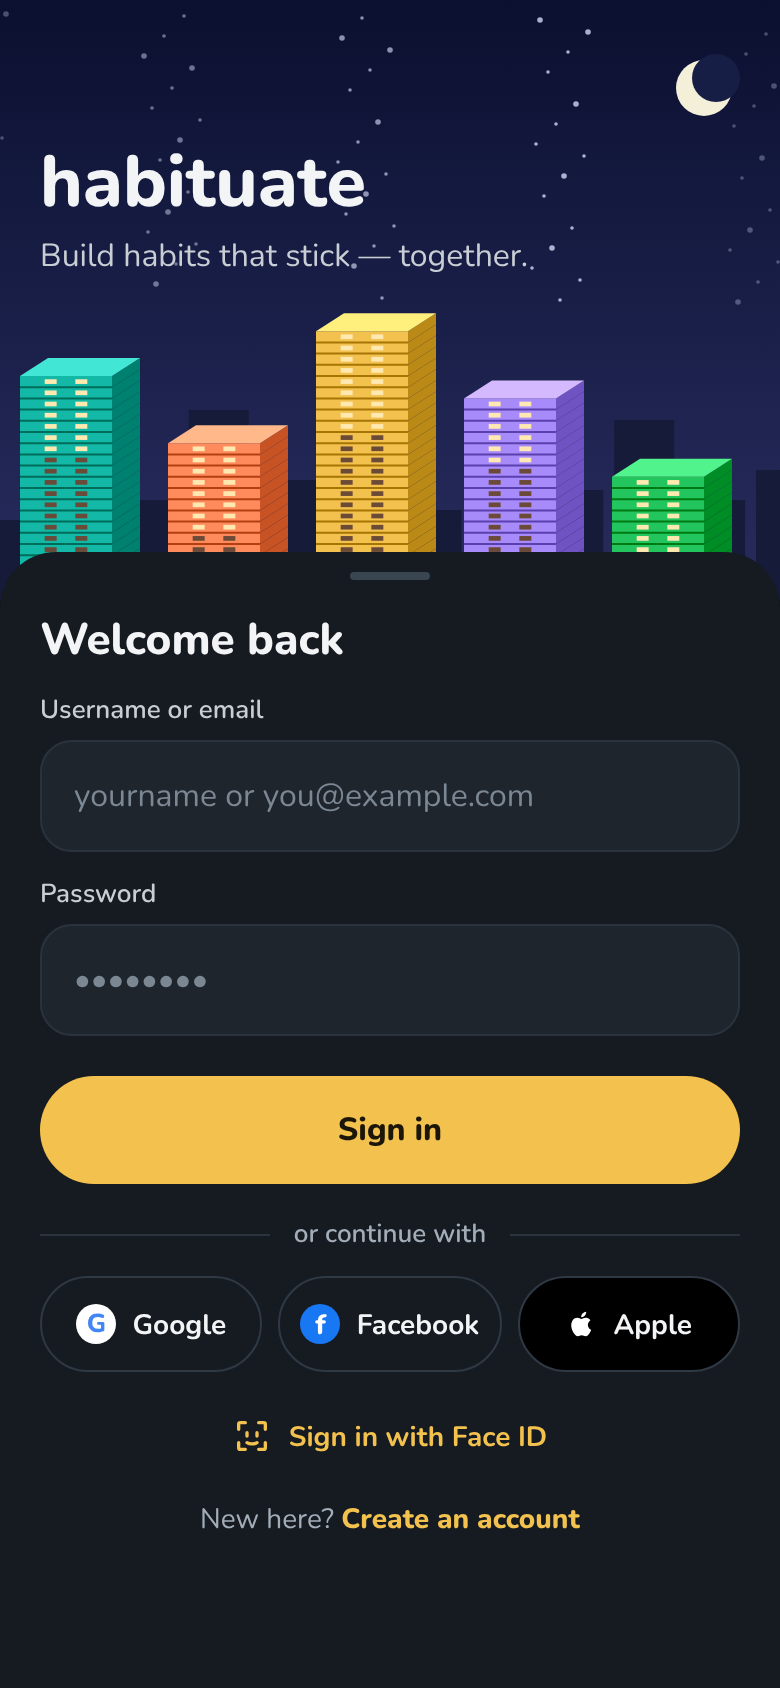
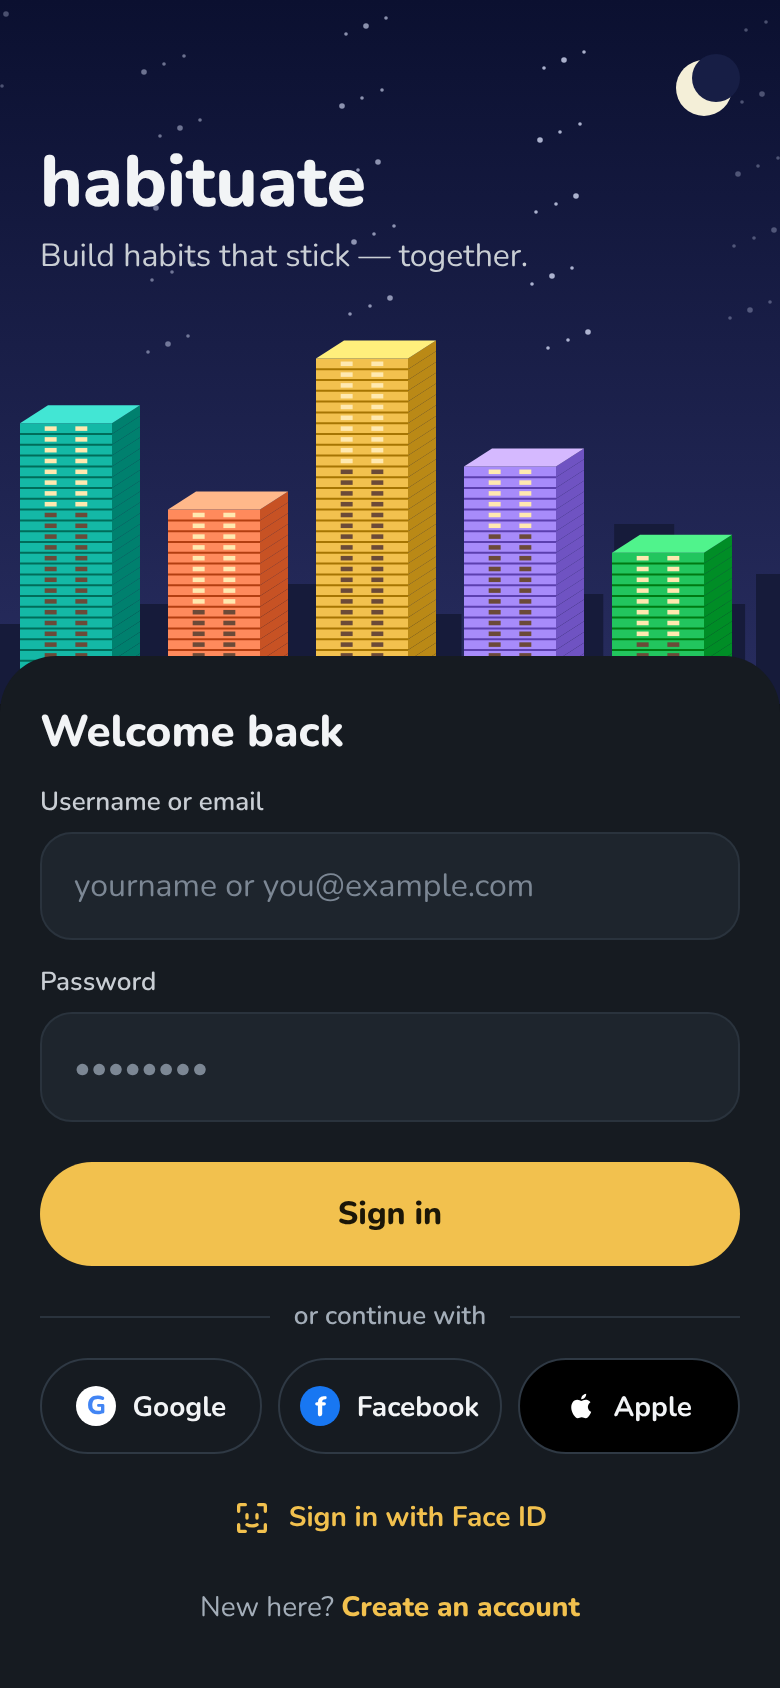
Login and create account: full-screen layout
Claude-Session: https://claude.ai/code/session_01UvWD32uMFJU1E2B9jDYiLg

diff --git a/design/skyline/source/rd.js b/design/skyline/source/rd.js
@@ -132,21 +132,20 @@ if(S==='rd-sn'){document.body.style.width="820px";document.body.style.height="47
  R.innerHTML=`<div style="position:absolute;inset:0;background:#0F1216;padding:16px 16px 0"><div style="display:flex;gap:16px">${crop('1 left',0)}${crop('Unlock',1)}</div><div style="display:flex;gap:16px;margin-top:8px"><div style="width:390px;font-size:13px;color:#C9CED4;line-height:1.4"><b>Near the cap (4 of 5 daily)</b>: the label under the empty lot reads "1 left" in meta grey (12 / 400). The lot still starts a new tower.</div><div style="width:390px;font-size:13px;color:#C9CED4;line-height:1.4"><b>At the cap (5 of 5 daily)</b>: the lot outline and label turn amber and read "Unlock". Tapping opens the create form as usual; Save then shows the paywall.</div></div></div>`;}
 
 // ---- auth (boards 92-93), design system: hero 36/800, message 16/400, sheet title 22/800, label 13/600, input 56, primary 54, secondary 48, meta 12-14
-if(S==='rd-li'||S==='rd-su'){const su=S==='rd-su';const HH=su?232:300;
- const T=su?[['#14B8A6',14,6,26],['#FF8A5C',10,6,100],['#F2C14E',18,8,174],['#A78BFA',13,5,248],['#22C55E',9,6,322]]:[['#14B8A6',20,7,10],['#FF8A5C',14,8,84],['#F2C14E',24,9,158],['#A78BFA',18,6,232],['#22C55E',11,7,306]];
+if(S==='rd-li'||S==='rd-su'){const su=S==='rd-su';const HH=su?280:352;
+ const T=su?[['#14B8A6',16,6,26],['#FF8A5C',11,6,100],['#F2C14E',20,8,174],['#A78BFA',14,5,248],['#22C55E',10,6,322]]:[['#14B8A6',26,8,10],['#FF8A5C',18,9,84],['#F2C14E',32,10,158],['#A78BFA',22,6,232],['#22C55E',14,8,306]];
  const fld=(l,ph)=>`<div style="font-size:13px;font-weight:600;line-height:18px;color:#C9CED4;margin-top:12px">${l}</div><div style="height:56px;border-radius:16px;background:#1E252D;border:1px solid #2A333D;display:flex;align-items:center;padding:0 16px;font-size:16px;color:#7C8794;margin-top:6px">${ph}</div>`;
  const pill=(ic,t,st='')=>`<div style="flex:1;height:48px;border-radius:24px;border:1.5px solid #2F3944;display:flex;align-items:center;justify-content:center;gap:8px;font-size:14px;font-weight:700;${st}">${ic}${t}</div>`;
  const g=`<i style="width:20px;height:20px;border-radius:10px;background:#fff;color:#4285F4;font-size:13px;font-weight:800;display:flex;align-items:center;justify-content:center;font-style:normal">G</i>`,f=`<i style="width:20px;height:20px;border-radius:10px;background:#1877F2;color:#fff;font-size:14px;font-weight:800;display:flex;align-items:center;justify-content:center;font-style:normal">f</i>`,ap=`<svg width="16" height="16" viewBox="0 0 24 24" fill="#fff"><path d="M16.4 12.6c0-2.3 1.9-3.4 2-3.5-1.1-1.6-2.8-1.8-3.4-1.8-1.4-.1-2.8.9-3.5.9s-1.8-.8-3-.8c-1.5 0-3 .9-3.8 2.3-1.6 2.8-.4 6.9 1.2 9.2.8 1.1 1.7 2.3 2.9 2.3 1.2 0 1.6-.7 3-.7s1.8.7 3 .7c1.3 0 2.1-1.1 2.8-2.2.9-1.3 1.3-2.5 1.3-2.6-.1 0-2.5-1-2.5-3.8ZM14.2 5.7c.6-.8 1.1-1.8.9-2.9-.9 0-2 .6-2.7 1.4-.6.7-1.1 1.8-1 2.8 1 .1 2-.5 2.8-1.3Z"/></svg>`;
  const face=`<svg width="20" height="20" viewBox="0 0 24 24" fill="none" stroke="#F2C14E" stroke-width="2" stroke-linecap="round"><path d="M4 8V5a1 1 0 0 1 1-1h3M16 4h3a1 1 0 0 1 1 1v3M20 16v3a1 1 0 0 1-1 1h-3M8 20H5a1 1 0 0 1-1-1v-3M9 10v2M15 10v2M9 16c1.5 1 4.5 1 6 0"/></svg>`;
  const sky=skyArt('night',390,HH+30,HH).replace(/<circle[^>]*fill="#F4EFD8"[^>]*\/>/,'<circle cx="352" cy="44" r="14" fill="#F4EFD8"/>').replace(/<circle[^>]*fill="#171E45"[^>]*\/>/,'<circle cx="358" cy="39" r="12" fill="#171E45"/>');
- R.innerHTML=`<div style="position:absolute;inset:0;overflow:hidden;background:#0F1216"><svg width="390" height="${HH+30}" style="position:absolute;top:0;left:0">${sky}${T.map(([c,n,l,x])=>tw(c,{x,base:HH,w:46,fh:su?4.4:5.6,dx:14,dy:9,floors:fl(n,l),windows:2,today:false})).join('')}</svg>
+ R.innerHTML=`<div style="position:absolute;inset:0;overflow:hidden;background:#0F1216"><svg width="390" height="${HH+30}" style="position:absolute;top:0;left:0">${sky}${T.map(([c,n,l,x])=>tw(c,{x,base:HH,w:46,fh:su?4.8:5.4,dx:14,dy:9,floors:fl(n,l),windows:2,today:false})).join('')}</svg>
  <div style="position:absolute;left:20px;right:20px;top:${su?56:72}px"><div style="font-size:36px;line-height:40px;font-weight:800">habituate</div><div style="font-size:16px;line-height:24px;color:#C9CED4;margin-top:4px">${su?'Start building — no pressure.':'Build habits that stick — together.'}</div></div>
- <div style="position:absolute;top:${HH-24}px;left:0;right:0;bottom:0;background:#161B21;border-radius:28px 28px 0 0;padding:0 20px"><div style="width:40px;height:4px;border-radius:2px;background:#3A4552;margin:10px auto 0"></div>
- <div style="font-size:22px;line-height:28px;font-weight:800;margin-top:16px">${su?'Create your account':'Welcome back'}</div>
+ <div style="position:absolute;top:${HH-24}px;left:0;right:0;bottom:0;background:#161B21;border-radius:28px 28px 0 0;padding:0 20px 30px;display:flex;flex-direction:column"><div style="font-size:22px;line-height:28px;font-weight:800;margin-top:24px">${su?'Create your account':'Welcome back'}</div>
  ${su?fld('Name (optional)','Your name')+fld('Email','you@example.com')+fld('Password','At least 6 characters'):fld('Username or email','yourname or you@example.com')+fld('Password','••••••••')}
  <div style="margin-top:20px;height:54px;border-radius:27px;background:#F2C14E;color:#1b1608;font-size:16px;font-weight:800;display:flex;align-items:center;justify-content:center">${su?'Create account':'Sign in'}</div>
  <div style="display:flex;align-items:center;gap:12px;margin-top:16px;color:#A3ADB8;font-size:13px;font-weight:600"><i style="flex:1;height:1px;background:#2A333D;display:block"></i>or continue with<i style="flex:1;height:1px;background:#2A333D;display:block"></i></div>
  <div style="display:flex;gap:8px;margin-top:12px">${pill(g,'Google')}${pill(f,'Facebook')}${pill(ap,'Apple','background:#000;border-color:#2F3944')}</div>
  ${su?'':`<div style="height:48px;display:flex;align-items:center;justify-content:center;gap:8px;font-size:14px;font-weight:700;color:#F2C14E;margin-top:8px">${face}Sign in with Face ID</div>`}
- <div style="text-align:center;font-size:14px;line-height:20px;color:#A3ADB8;margin-top:${su?20:8}px">${su?'Already have an account? ':'New here? '}<b style="color:#F2C14E;font-weight:800">${su?'Sign in':'Create an account'}</b></div></div></div>`;}
+ <div style="text-align:center;font-size:14px;line-height:20px;color:#A3ADB8;margin-top:auto;padding-top:12px">${su?'Already have an account? ':'New here? '}<b style="color:#F2C14E;font-weight:800">${su?'Sign in':'Create an account'}</b></div></div></div>`;}
 })();

diff --git a/design/skyline/README.md b/design/skyline/README.md
@@ -150,4 +150,4 @@ Free caps: 5 daily, 1 weekly, 1 monthly, 2 Shield Days. Ask Habituate is not par
 | 93 | `93-create-account.png` | Same look, shorter hero. "Create your account", Name (optional), Email, Password, Create account, the three social sign-ups, "Already have an account? Sign in". Tagline "Start building — no pressure." |
 Same fields, order and actions as today's LoginScreen and SignupScreen; only the look changes. Third-party buttons follow each provider's brand rules in the build.
 
-**Login v2 (2026-11-25):** redrawn to the design system after the owner said v1 was not good. Hero wordmark 36/800 and tagline 16/400 (message), sheet title 22/800, labels 13/600, inputs 56 radius 16, Sign in 54, three equal 48 pills for Google, Facebook and Apple under "or continue with", Face ID as a compact link, footer 14. Towers sit clear of the text. Awaiting the owner's approval.
+**Login v2 (2026-11-25), full-screen layout (no sheet handle, footer pinned to the bottom):** redrawn to the design system after the owner said v1 was not good. Hero wordmark 36/800 and tagline 16/400 (message), sheet title 22/800, labels 13/600, inputs 56 radius 16, Sign in 54, three equal 48 pills for Google, Facebook and Apple under "or continue with", Face ID as a compact link, footer 14. Towers sit clear of the text. Awaiting the owner's approval.
